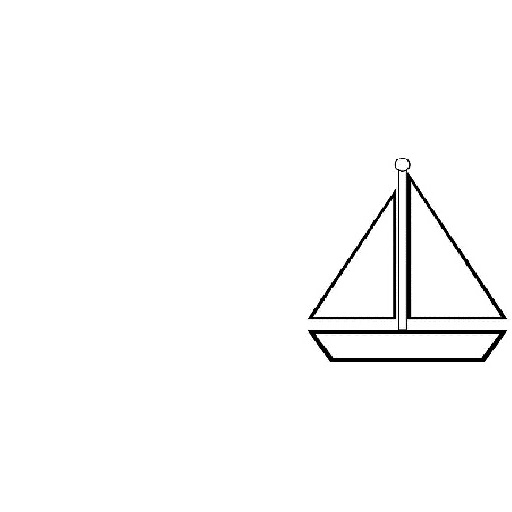
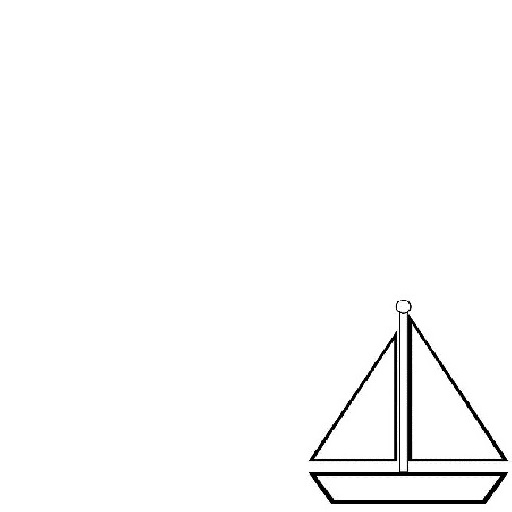
Able to learn y translation mappings.
In this commit my MSC is able to learn y translation mappings. I have
added a few more translated images for testing.

Changed region(s): [[0.5938, 0.3125, 1.0, 1.0], [0.8438, 0.4062, 0.9062, 0.5]]

diff --git a/Learning_Transformation/Map_Seeking_Circuits_Real_Image.m b/Learning_Transformation/Map_Seeking_Circuits_Real_Image.m
@@ -5,7 +5,7 @@ clc;
 %% Setting up the parameters.
 
 % 1. This sets the number of times MSC architecture will iterate.
-iterationCount = 15;
+iterationCount = 20;
 
 % 2. Read the already stored images from tif image file.
 fname = 'Memory_Images.tif';
@@ -27,6 +27,7 @@ layerCount = 1;
 
 k_mem = 0.3;
 k_xTranslation = 0.5;
+k_yTranslation = 0.5;
 
 % 5. Read the matching values of q already stored in the file.
 
@@ -40,10 +41,16 @@ end
 % 6. Set the parameters for image translation.
 
 % By how much the image should be translated on x-axis.
-xTranslateQuantity = 20;
+xTranslateQuantity = 5;
+
+% By how much the image should be translated on y-axis.
+yTranslateQuantity = 5;
 
 % Number of times this x-translation that has to be applied.
-xTranslationCount = 35;
+xTranslationCount = 60;
+
+% Number of times this y-translation that has to be applied.
+yTranslationCount = 60;
 
 % 7. Check whether there are any transformations going on in the circuit.
 % Initially the value  of transformation is zero, that is no transformation
@@ -80,7 +87,7 @@ g_mem(1:memory_units) = single(ones(memory_units,1));
 %% Initialize the value of g to all ones for the three layers.
 
 g_layer1(1:2*xTranslationCount+1) = single(ones(1,2*xTranslationCount+1));
-
+g_layer2(1:2*yTranslationCount+1) = single(ones(1,2*yTranslationCount+1));
 
 %% The number of iterations for MSC to run.
 for i = 1:iterationCount
@@ -88,14 +95,30 @@ for i = 1:iterationCount
 % Set the value of backward path 
     b(:,:,layerCount) = layer_memory(g_mem, Memory_Img, memory_units);
     
+    if(Transformation >= 2)
+        % Perform inverse translation on the superimposed image along y-axis.
+        b(:,:,2) = layer_2(b(:,:,3), yTranslationCount, yTranslateQuantity, g_layer2, 'backward');
+    end
+    
+    if(Transformation >= 1)        
+        % Perform inverse translation on the superimposed image along y-axis.
+        b(:,:,1) = layer_1(b(:,:,2), xTranslationCount, xTranslateQuantity, g_layer1, 'backward');
+    end    
+    
     if(Transformation >= 1)
+        q_xTranslation(1:2*xTranslationCount+1) = single(zeros(1,2*xTranslationCount+1));
         % Translate the image along x-axis.
         [f(:,:,2), Tf0] = layer_1(Test_Img, xTranslationCount, xTranslateQuantity, g_layer1, 'forward');    
         %Calculate the value of q_layer1.
-        q_xTranslation(1:2*xTranslationCount+1) = dotproduct(Tf0, b(:,:,2));        
-        
-        % Perform inverse translation on the superimposed image along y-axis.
-        b(:,:,1) = layer_1(b(:,:,2), xTranslationCount, xTranslateQuantity, g_layer1, 'backward');
+        q_xTranslation(1:2*xTranslationCount+1) = dotproduct(Tf0, b(:,:,2));  
+    end
+    
+    if(Transformation >= 2)
+        q_yTranslation(1:2*yTranslationCount+1) = single(zeros(1,2*yTranslationCount+1));
+        % Translate the image along x-axis.
+        [f(:,:,3), Tf1] = layer_2(f(:,:,2), yTranslationCount, yTranslateQuantity, g_layer2, 'forward');    
+        %Calculate the value of q_layer1.
+        q_yTranslation(1:2*yTranslationCount+1) = dotproduct(Tf1, b(:,:,3));   
     end
     
     f(:,:,1) = Test_Img;
@@ -107,16 +130,20 @@ for i = 1:iterationCount
         dlmwrite('q_mem.txt', q_Top_Layer, '\n');
     else
         if(q_Top_Layer<0.4*q_mem(1))
-            Transformation = 1;
-            layerCount = 2;
-            b(:,:,2) = b(:,:,1);
-            q_xTranslation(1:2*xTranslationCount+1) = single(zeros(1,2*xTranslationCount+1));
+            Transformation = Transformation+1;
+            layerCount = layerCount+1;
+            b(:,:,layerCount) = b(:,:,layerCount-1);            
         else
             if(Transformation >= 1)
                 g_layer1 = g_layer1 - k_xTranslation*( 1-( q_xTranslation./max(q_xTranslation) ) );
                 g_layer1 = g_threshold(g_layer1, gThresh);
             end    
-    
+                
+            if(Transformation >= 2)
+                g_layer2 = g_layer2 - k_yTranslation*( 1-( q_yTranslation./max(q_yTranslation) ) );
+                g_layer2 = g_threshold(g_layer2, gThresh);
+            end 
+            
             g_mem = g_mem - k_mem*( 1-( q_Top_Layer./max(q_Top_Layer) ) );
             g_mem = g_threshold(g_mem, gThresh);
         end
@@ -137,4 +164,12 @@ if(Transformation >= 1)
     figure(6);
     imshow(f(:,:,2));
 
+end
+
+if(Transformation >= 2)
+    figure(7);
+    imshow(b(:,:,3));
+
+    figure(8);
+    imshow(f(:,:,3));    
 end
